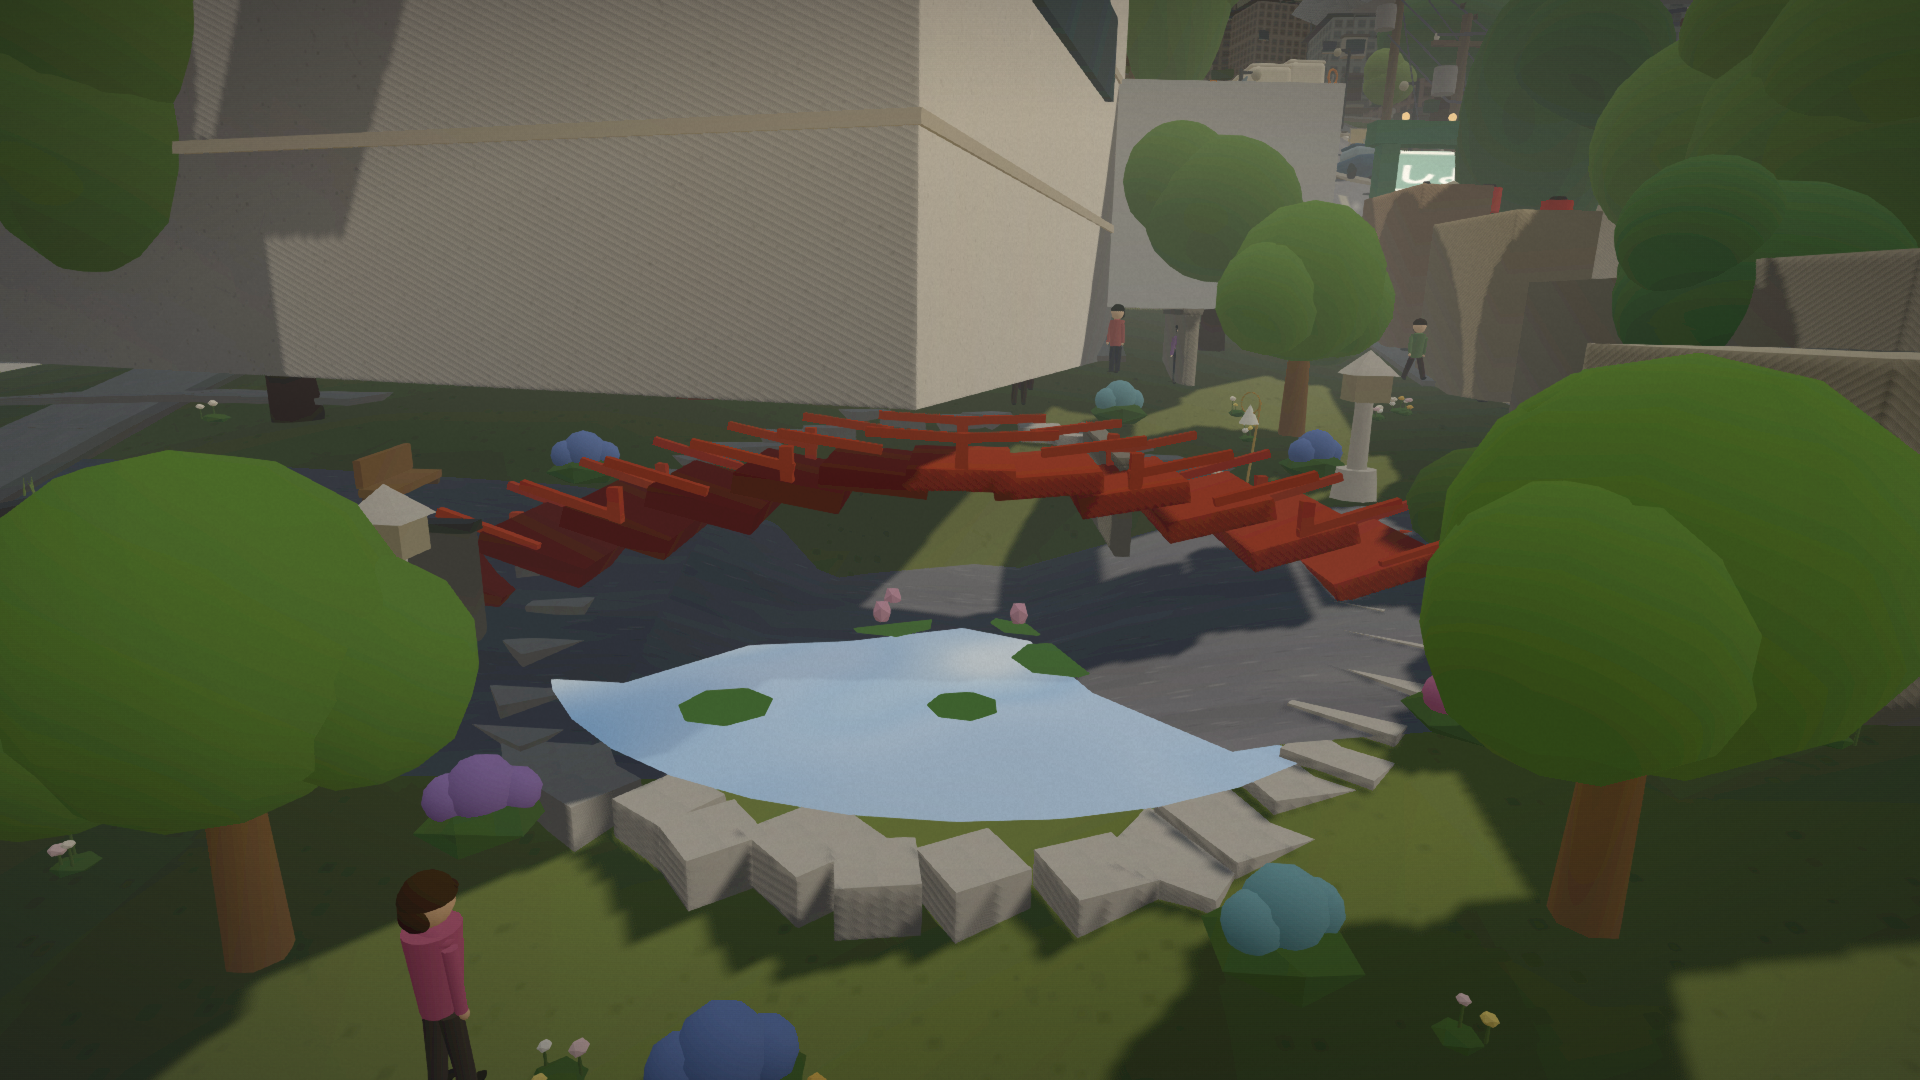
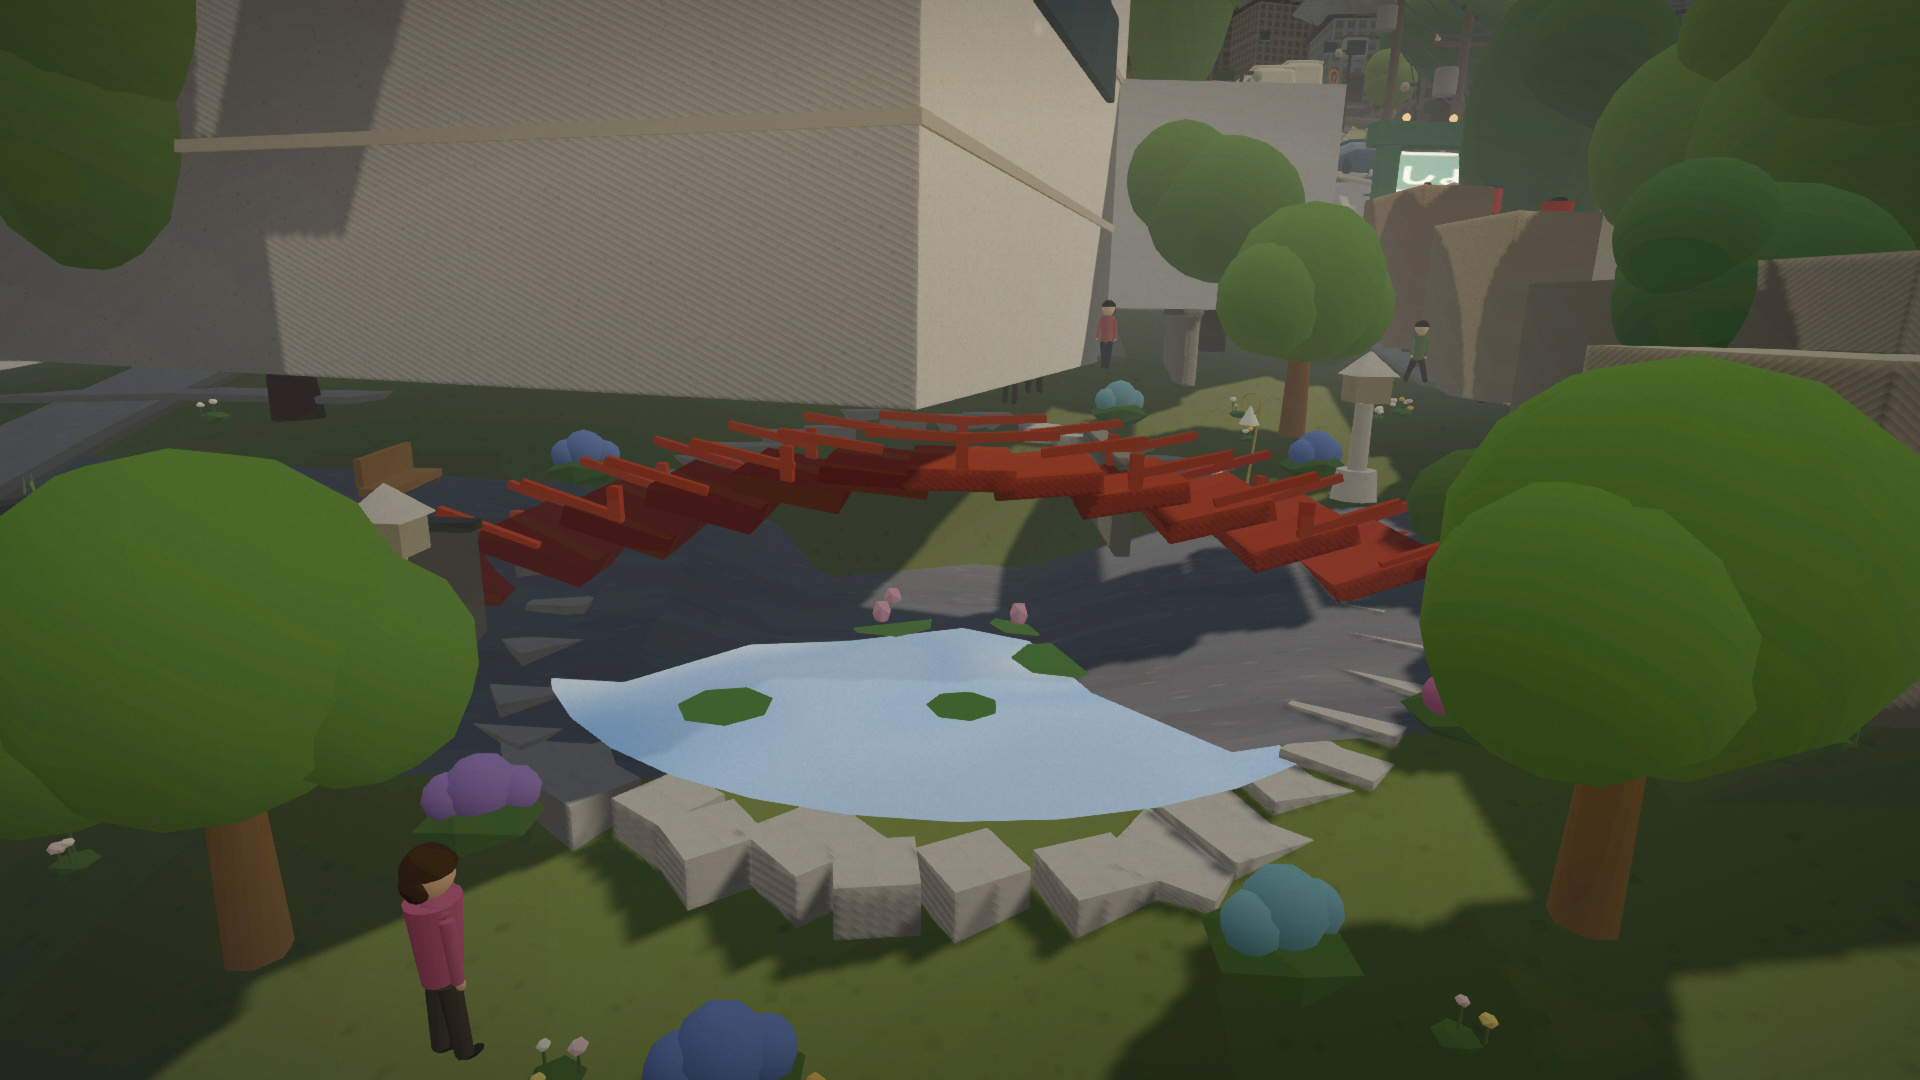
便4: 外の目の指摘を直した（水は霧を切って測る・海の白い濁りを抑える・谷戸の層を薄く・夕方と谷戸の記録）

diff --git a/src/engine/heightFog.js b/src/engine/heightFog.js
@@ -27,11 +27,11 @@ export function installHeightFog(THREE) {
   #endif
   if ( uMistA.w > 0.0 && uMistA.y > 0.0 ) {
     // 視線に沿って「高さで薄くなる濃さ」を足し合わせる（高さが直線で変わるので式で解ける）。
-    // 溜まる高さより下は厚みの1.5倍で頭打ち（深い谷や海の底で濃さが跳ね上がらないように）
+    // 溜まる高さより下は厚みの0.75倍で頭打ち（海や深い谷で濃さが跳ね上がり、広い海が白く濁らないように）
     vec3 mP = vMistW;
     float mL = length( mP - cameraPosition );
-    float mHc = max( cameraPosition.y - uMistA.x, - 1.5 * uMistA.y );
-    float mHp = max( mP.y - uMistA.x, - 1.5 * uMistA.y );
+    float mHc = max( cameraPosition.y - uMistA.x, - 0.75 * uMistA.y );
+    float mHp = max( mP.y - uMistA.x, - 0.75 * uMistA.y );
     float mDy = mHp - mHc;
     float mOp = abs( mDy ) < 0.05
       ? uMistA.z * mL * exp( - mHp / uMistA.y )

diff --git a/src/data/mist.js b/src/data/mist.js
@@ -16,8 +16,8 @@ export const MIST_TIME = { predawn: 1.2, dawn: 1.25, morning: 1.2, noon: 0.7, du
 // 天気ごとの濃さの倍率。雪は空気の霞がもう濃く、霧を足すと白い街が沈むので薄く。雨はやや濃く
 export const MIST_WEATHER = { clear: 1, cloudy: 1.1, rain: 1.2, snow: 0.5 }
 
-// 場所ごとの溜まる高さ。谷戸は谷底の棚田（-4〜0m）の上に溜まる
-export const MIST_KIND = { town: {}, yato: { base: -2, scale: 5 } }
+// 場所ごとの溜まる高さ。谷戸は谷底の棚田（-4〜0m）の上に溜まる（厚みを5m にすると谷底が白く沈みかけたので、街と同じ4m）
+export const MIST_KIND = { town: {}, yato: { base: -3 } }
 
 // 夜と夜明け前は、霧の色を霞（暗い色）へ寄せる
 const DARK_TIMES = { night: 1, predawn: 1 }
